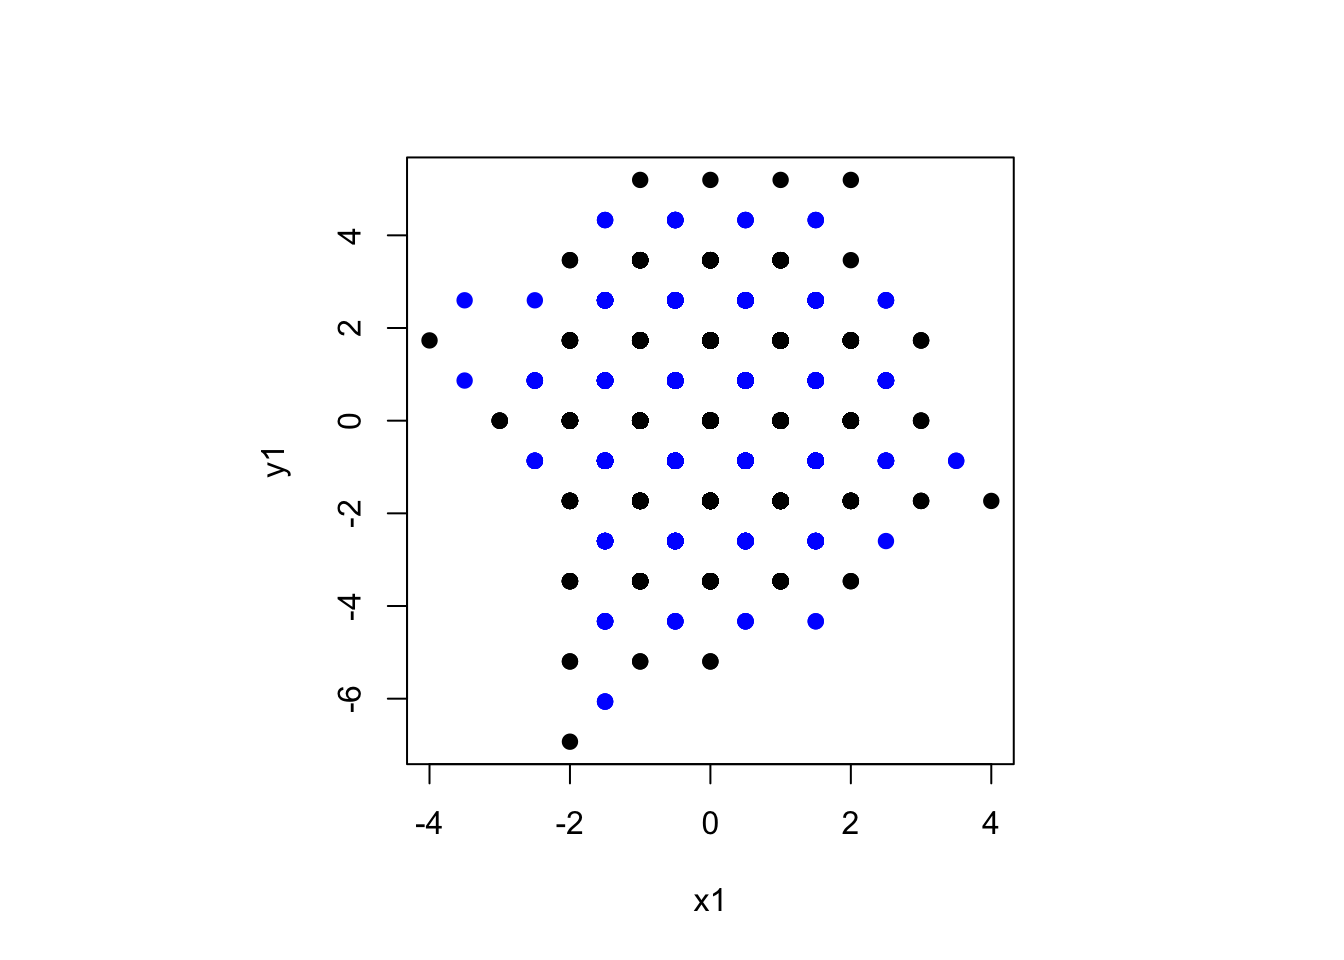
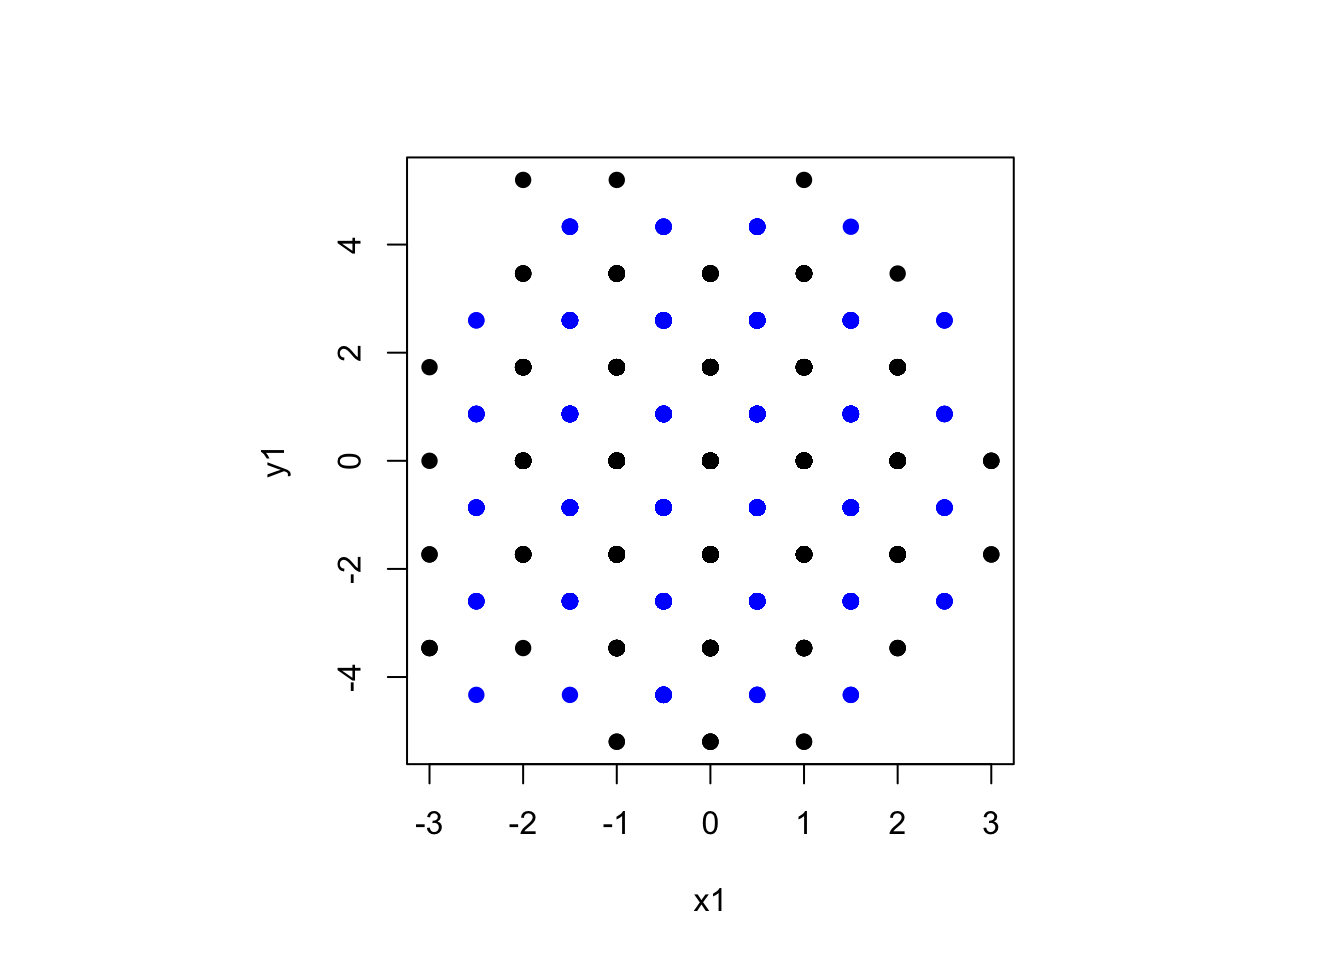
Xchromosome

diff --git a/content/post/2018-6-9gwas.html b/content/post/2018-6-9gwas.html
@@ -1,0 +1,20 @@
+---
+title: "Statistical software matters"
+author: "Thomas Lumley"
+date: 2018-06-09
+output: html_document
+---
+
+
+
+<p>This is a picture of all the genetic associations found in genome-wide association studies, sorted by chromosome. You can find more detail at the <a href="https://www.ebi.ac.uk/training/online/course/gwas-catalog-exploring-snp-trait-associations/how-access-and-navigate-tool-name">NHGRI GWAS catalog</a></p>
+<div class="figure">
+<img src="/post/2018-6-9gwas_files/GWAS_Catalog_diagram.jpg" style="width:95.0%" />
+
+</div>
+<p>There are two chromosomes with many fewer associations. One is the Y chromosome. There isn’t much there because there isn’t much there. The other is the X chromosome. There isn’t much there because GWAS took a lot longer to get started for the X chromosome, and that’s mostly for software reasons.</p>
+<p>One of the important steps in GWAS consortia was imputation. Different research groups used different SNP chips, but they all had pretty good coverage of the genome, and all the sets of results could be imputed for a common set of SNPs – typically 2.5 million from the HapMap project.</p>
+<p>The first step in imputation is to estimate haplotypes: you’ve got two copies of each chromosome, and the SNPchips don’t know which allele came from which copy. The software ran into trouble for the X chromosome, because while women have two copies of the X chromosome, men only have one. There were work-arounds, but for a while most people ignored the X chromosome because they (we) were in a hurry.</p>
+<p>Another fairly simple software-related obstacle was the handling of X-chromosome inactivation. If you have two X chromosomes, one of them will mostly be switched off, with the choice being effectively random. The patches of inactivation are small enough that most tissues have close to 50:50 representation of each of the chromosomes. For the additive genetic models we mostly used, you can sensibly code the number of copies of an allele on the X chromosome as 0, 1/2, 1 for women and 0,1 for men. But the default in PLINK was the less-desirable 0,1,2 for women and 0,1 for men, leading people to want sex-specific analyses with more work and lower power and more wor</p>
+<p>Software isn’t the only issue: there was a lot of reluctance in some groups to pool X-chromosome data for males and females. I think this is misguided, both because of X-chromosome inactivation and because even if alleles on the X-chromosome are more <em>likely</em> to have sex-specific effects, there’s still a lot of ordinary genes there.</p>
+<p>Anyway, even now, more than ten years after the Wellcome Trust study there’s still less known from GWAS of the X chromosome than the other 22 major chromosomes. And a definite part of that is availability of software.</p>

diff --git a/content/post/2018-6-5surveysindb.html b/content/post/2018-6-5surveysindb.html
@@ -38,21 +38,21 @@ tibble(x,y) %&gt;%
    mutate(d1=(x-x1)^2+3*(y-y1)^2, d2=(x-x2)^2+3*(y-y2)^2) %&gt;%
    mutate(hx=if_else(d1&lt;d2,x1,x2), hy=if_else(d1&lt;d2,y1,y2)) %&gt;%
    group_by(hx,hy) %&gt;% summarise(count=n())</code></pre>
-<pre><code>## # A tibble: 67 x 3
+<pre><code>## # A tibble: 64 x 3
 ## # Groups:   hx [?]
 ##       hx     hy count
 ##    &lt;dbl&gt;  &lt;dbl&gt; &lt;int&gt;
-##  1  -3.5  0.866     1
-##  2  -3.5  2.60      1
-##  3  -3    0         2
-##  4  -2.5 -0.866     5
-##  5  -2.5  0.866     6
-##  6  -2   -5.20      1
-##  7  -2   -3.46      3
-##  8  -2   -1.73      2
-##  9  -2    0        12
-## 10  -2    1.73      3
-## # ... with 57 more rows</code></pre>
+##  1  -3.5 -0.866     1
+##  2  -3   -3.46      1
+##  3  -3   -1.73      1
+##  4  -3    1.73      1
+##  5  -2.5 -4.33      1
+##  6  -2.5 -2.60      2
+##  7  -2.5 -0.866     5
+##  8  -2.5  0.866     5
+##  9  -2.5  2.60      1
+## 10  -2   -1.73      6
+## # ... with 54 more rows</code></pre>
 <p>And once you’ve got in <code>dplyr</code>, you can just run it in <code>dbplyr</code> to do the computations in the database</p>
 <p>For survey data, we want <code>summarise(count=sum(weights))</code> rather than <code>summarise(count=n())</code> so that the hex size depends on the estimated population size rather than the sample size, but otherwise it’s the same. That actually simplifies the edge-effect problem, as you can just add a point with zero weight at each potential hex center.</p>
 <p>And here’s a small example,</p>
